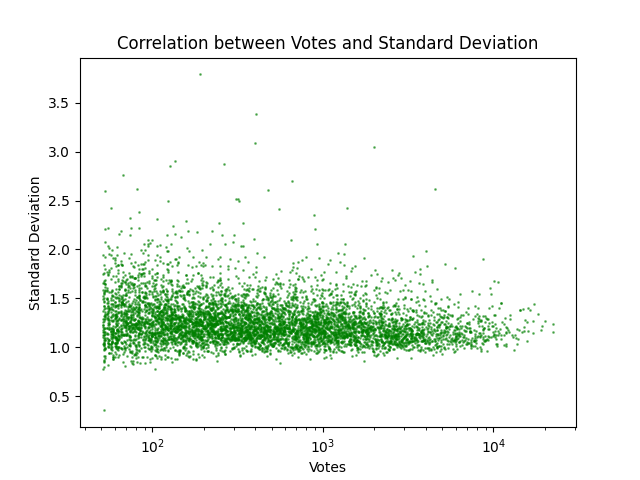
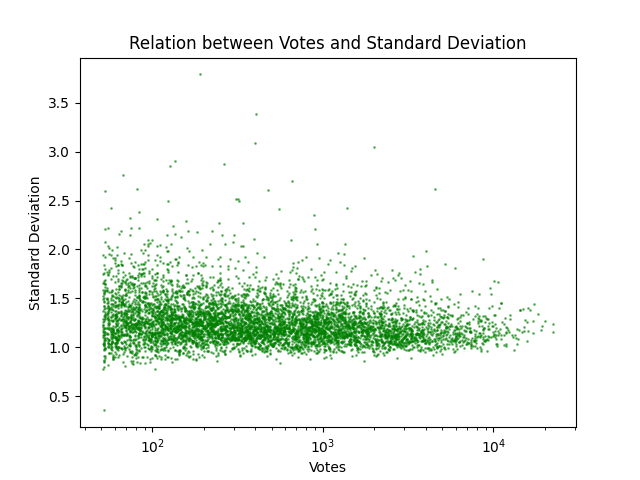
Feat: More xy relations

Changed region(s): [[0.1875, 0.0625, 0.8438, 0.125]]

diff --git a/stat.py b/stat.py
@@ -1,7 +1,7 @@
 import numpy as np
 import pandas as pd
 import matplotlib.pyplot as plt
-from scipy.stats import norm, pearsonr, mode
+from scipy.stats import norm, pearsonr, halfnorm, mode
 
 '''
 STEP3: perform statistical analysis (stat)
@@ -56,7 +56,7 @@ def x_stat(s, name, fname, n, ofile):
     ofile.write("10%%-90%%,%.4f,%.4f\n" % (np.percentile(s, 10), np.percentile(s, 90)))
     ofile.write("15%%-85%%,%.4f,%.4f\n" % (np.percentile(s, 15), np.percentile(s, 85)))
     ofile.write("20%%-80%%,%.4f,%.4f\n" % (np.percentile(s, 20), np.percentile(s, 80)))
-    ofile.write("Quartiles,%.4f,%.4f\n" % (lq, uq))
+    ofile.write("25%%-75%%,%.4f,%.4f\n" % (lq, uq))
     ofile.write("30%%-70%%,%.4f,%.4f\n" % (np.percentile(s, 30), np.percentile(s, 70)))
     ofile.write("40%%-60%%,%.4f,%.4f\n" % (np.percentile(s, 40), np.percentile(s, 60)))
     ofile.write("Median,%.4f\n" % med)
@@ -89,7 +89,9 @@ def x_stat(s, name, fname, n, ofile):
 
 def x_nodist(s, name, fname, n, ofile):
     '''
-    basically same as x_stat(), but no distribution plot
+    basically same as x_stat()
+    the distribution decays faster than exponential but slower than gumbel (e^e^x)
+    try to fit the distribution with a half-normal distribution
     params:
     s - series to be analyzed
     name - name of the series
@@ -112,19 +114,21 @@ def x_nodist(s, name, fname, n, ofile):
     ofile.write("10%%-90%%,%.0f,%.0f\n" % (np.percentile(s, 10), np.percentile(s, 90)))
     ofile.write("15%%-85%%,%.0f,%.0f\n" % (np.percentile(s, 15), np.percentile(s, 85)))
     ofile.write("20%%-80%%,%.0f,%.0f\n" % (np.percentile(s, 20), np.percentile(s, 80)))
-    ofile.write("Quartiles,%.0f,%.0f\n" % (lq, uq))
+    ofile.write("25%%-75%%,%.0f,%.0f\n" % (lq, uq))
     ofile.write("30%%-70%%,%.0f,%.0f\n" % (np.percentile(s, 30), np.percentile(s, 70)))
     ofile.write("40%%-60%%,%.0f,%.0f\n" % (np.percentile(s, 40), np.percentile(s, 60)))
     ofile.write("Median,%.0f\n" % med)
     plt.hist(s, bins=500, density=True, alpha=.75, color='g')
     plt.yscale('log') # x-log(y)
+    # x = np.linspace(lq, med, 100)
+    # plt.plot(x, halfnorm.pdf(x, loc=lo, scale=med-lo), color='r', linewidth=1)
     plt.axvline(p3s, color='b', linestyle='dashdot', linewidth=.5)
     plt.axvline(p2s, color='b', linestyle='dotted', linewidth=1)
     plt.axvline(uq, color='b', linestyle='dashed', linewidth=1)
     plt.axvline(med, color='r', linestyle='dashed', linewidth=1)
     plt.axvline(lq, color='m', linestyle='dashed', linewidth=1)
     x_diff = (hi - lo) / 500 
-    mid_y = plt.ylim()[1] / pow(2000, 1/2) # max~2500 and min~50, sqrt so it is at the center of log scale
+    mid_y = plt.ylim()[1] / pow(2000, 1/2) # roughly center of the log scale
     plt.text(p3s + x_diff, mid_y, f"{p3s:.0f}", rotation=90, va='center', color='b')
     plt.text(p2s + x_diff, mid_y, f"{p2s:.0f}", rotation=90, va='center', color='b')
     plt.text(uq + x_diff, mid_y, f"{uq:.0f}", rotation=90, va='center', color='b')
@@ -208,7 +212,7 @@ def xy_corr(x, y, xname, yname, fname, n, ofile):
     plt.clf()
     ofile.write("\n")
 
-def xy(x, y, xname, yname, fname, n, ofile):
+def xy(x, y, xname, yname, fname, n, ofile, xs='linear', ys='linear'):
     '''
     basically the same as xy_corr(), but no linear regression line
     params:
@@ -221,11 +225,11 @@ def xy(x, y, xname, yname, fname, n, ofile):
     plt.scatter(x, y, s=1, alpha=.5, color='g')
     plt.xlabel(xname)
     plt.ylabel(yname)
-    plt.xscale('log')
-    plt.title("Correlation between %s and %s" % (xname, yname))
+    plt.xscale(xs)
+    plt.yscale(ys)
+    plt.title("Relation between %s and %s" % (xname, yname))
     plt.savefig(pre + fname)
     plt.clf()
-    ofile.write("\n")
 
 def main():
     df = pd.read_csv(ifile)
@@ -248,11 +252,19 @@ def main():
     # rank(x) vs avg(y) => data/stat/rank_avg.png; negative correlation
     rank = df['rank'].values.tolist() # in the same order as avg
     xy_corr(rank, avg, "Rank", "Average", "rank_avg.png", n, ofile)
-    # vote(x) vs std(y) => data/stat/vote_std.png
-    xy(vote, std, "Votes", "Standard Deviation", "vote_std.png", n, ofile)
     # user(x) vs vote(y) => data/stat/user_vote.png; positive correlation
     user = df['user'].values.tolist()
     xy_corr(user, vote, "User", "Votes", "user_vote.png", n, ofile)
+    # vote(x) vs std(y) => data/stat/vote_std.png; R~0.62
+    xy(vote, std, "Votes", "Standard Deviation", "vote_std.png", n, ofile, xs='log')
+    # rank(x) vs std(y) => data/stat/rank_std.png
+    xy(rank, std, "Rank", "Standard Deviation", "rank_std.png", n, ofile)
+    # rank(x) vs vote(y) => data/stat/rank_vote.png
+    xy(rank, vote, "Rank", "Votes", "rank_vote.png", n, ofile)
+    # avg(x) vs std(y) => data/stat/avg_std.png
+    xy(avg, std, "Average", "Standard Deviation", "avg_std.png", n, ofile)
+    # vote(x) vs avg(y) => data/stat/vote_avg.png; R~0.35, no strong correlation
+    xy(vote, avg, "Votes", "Average", "vote_avg.png", n, ofile, xs='log')
     # s1, ..., s10
     ss = [sum(df['s%d' % i].values.tolist()) for i in range(1, 11)]
     x_discr(ss, avg, "All User Votes", "vote_breakdown.png", sum_votes, ofile)

diff --git a/README.md b/README.md
@@ -47,7 +47,7 @@ To crawl data by yourself, you can run the following commands, or simply execute
     - if you have configured UA correctly;
     - if your IP is blocked by Bangumi.
 
-## Result
+## Results
 
 ### General Statistics
 
